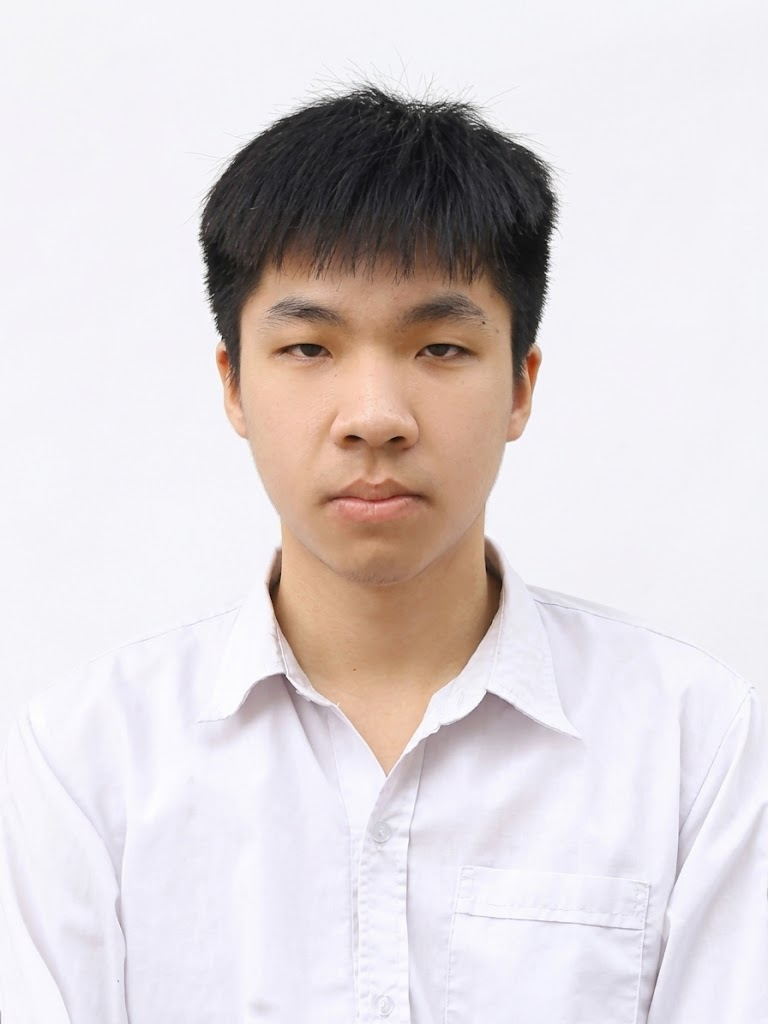
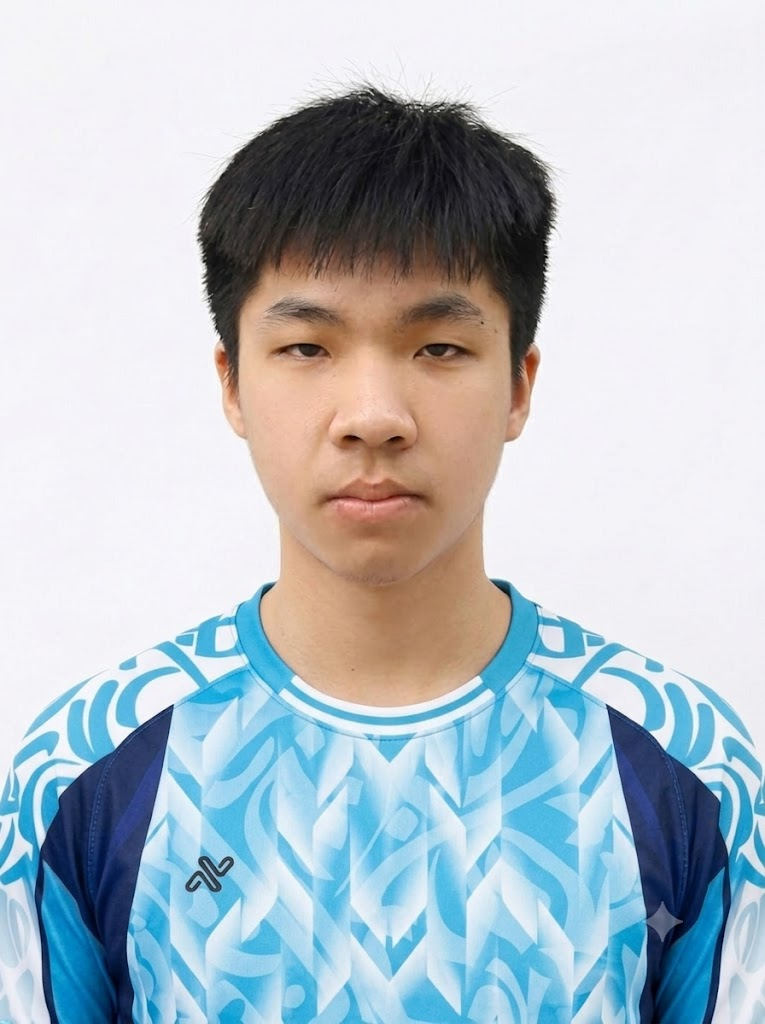
feat: redesign layout for 3 rows x 5 columns on mobile and tablet, fix mobile title visibility, and refresh photos

diff --git a/css/style.css b/css/style.css
@@ -152,7 +152,7 @@ body {
   display: block;
 }
 
-/* Dòng 1: Tiêu đề thể thao mạ ánh bạc metallic */
+/* Dòng 1: Tiêu đề thể thao mạ ánh bạc metallic sáng rực trên mọi màn hình */
 .poster-title {
   font-size: var(--font-size-title);
   font-weight: 900;
@@ -160,10 +160,8 @@ body {
   letter-spacing: 0.5px;
   margin-bottom: 8px;
   text-transform: uppercase;
-  background: linear-gradient(180deg, #FFFFFF 0%, #E0F2FE 55%, #BAE6FD 100%);
-  -webkit-background-clip: text;
-  -webkit-text-fill-color: transparent;
-  filter: drop-shadow(0 3px 10px rgba(0, 0, 0, 0.8));
+  color: #FFFFFF;
+  text-shadow: 0 2px 10px rgba(0, 0, 0, 0.95), 0 0 20px rgba(56, 189, 248, 0.7);
 }
 
 /* Dòng 2: Phụ đề dạng huy hiệu giải đấu (Matchday tournament tag) */
@@ -324,11 +322,13 @@ body {
               border-color 0.35s ease;
 }
 
-/* Hiệu ứng rê chuột thể thao bóng đá: Phóng to, viền cyan rực sáng */
-.person-card:hover .person-photo-wrapper {
-  transform: translateY(-6px) scale(1.04);
-  box-shadow: var(--card-glow-hover);
-  border-color: var(--card-border-hover);
+/* Hiệu ứng rê chuột thể thao bóng đá: Phóng to, viền cyan rực sáng (chỉ trên thiết bị hỗ trợ hover) */
+@media (hover: hover) {
+  .person-card:hover .person-photo-wrapper {
+    transform: translateY(-6px) scale(1.04);
+    box-shadow: var(--card-glow-hover);
+    border-color: var(--card-border-hover);
+  }
 }
 
 .person-img {
@@ -496,26 +496,21 @@ body {
 
 /* -------------------------------------------------------------------------- */
 /* 9. THIẾT KẾ ĐÁP ỨNG ĐA THIẾT BỊ (RESPONSIVE BREAKPOINTS)                    */
+/* LUÔN DUY TRÌ 5 CỘT (3 HÀNG X 5 CỘT = 15 CẦU THỦ) TRÊN MỌI THIẾT BỊ         */
 /* -------------------------------------------------------------------------- */
 
-/* Tablet ngang (768px - 1023px): 4 cột */
-@media (max-width: 1023px) and (min-width: 768px) {
+/* Tablet & Màn hình trung bình (480px - 1023px): 5 cột cân đối */
+@media (max-width: 1023px) and (min-width: 480px) {
   :root {
-    --grid-columns: 4;
-    --grid-gap: 16px;
+    --grid-columns: 5;
+    --grid-gap: 8px;
+    --name-col-width: 17%;
+    --card-radius: 6px;
+    --font-size-name: 10.5px;
   }
   
   .poster-container {
-    padding-top: 28px;
-  }
-}
-
-/* Tablet dọc & Điện thoại lớn (480px - 767px): 3 cột */
-@media (max-width: 767px) and (min-width: 480px) {
-  :root {
-    --grid-columns: 3;
-    --grid-gap: 14px;
-    --name-col-width: 19%;
+    padding: 24px 12px 20px;
   }
 
   .header-logo-wrapper {
@@ -524,67 +519,119 @@ body {
     margin-bottom: 10px;
   }
 
-  .event-info {
-    flex-direction: column;
-    align-items: center;
-    gap: 8px;
-    text-align: center;
+  .jersey-number {
+    min-width: 26px;
+    height: 20px;
+    font-size: 13px;
+    bottom: 5px;
+    padding: 0 5px;
   }
 
-  .sponsors-inner {
-    gap: 20px 32px;
+  .event-info {
+    font-size: 13px;
+    padding: 10px 16px;
   }
 }
 
-/* Điện thoại nhỏ (< 480px): 2 cột */
+/* Điện thoại di động (< 480px): Chuẩn 5 cột x 3 hàng, sắc nét, không bị vỡ */
 @media (max-width: 479px) {
   :root {
-    --grid-columns: 2;
-    --grid-gap: 12px;
-    --name-col-width: 20%;
-    --font-size-name: 11.5px;
+    --grid-columns: 5;
+    --grid-gap: 4px;
+    --name-col-width: 13px;
+    --font-size-name: 7.5px;
+    --card-radius: 4px;
   }
 
   .poster-container {
-    padding: 20px 12px 16px;
+    padding: 12px 4px 16px;
+  }
+
+  .poster-header {
+    margin-bottom: 12px;
   }
 
   .header-logo-wrapper {
-    width: 48px;
-    height: 48px;
-    margin-bottom: 8px;
+    width: 44px;
+    height: 44px;
+    margin-bottom: 6px;
+    padding: 2px;
   }
 
   .poster-title {
-    font-size: 20px;
+    font-size: 15px;
+    letter-spacing: 0.3px;
+    margin-bottom: 5px;
+    line-height: 1.25;
   }
 
   .poster-subtitle {
-    font-size: 12.5px;
-    padding: 4px 12px;
+    font-size: 9px;
+    padding: 3px 8px;
+    letter-spacing: 0.3px;
+    line-height: 1.3;
+    border-radius: 12px;
+  }
+
+  .team-grid {
+    gap: 4px;
+    margin-bottom: 12px;
+  }
+
+  .person-card {
+    align-items: stretch;
+  }
+
+  .person-name-col {
+    width: 13px;
+    padding-bottom: 2px;
+    padding-right: 2px;
+  }
+
+  .person-name {
+    font-size: 7.5px;
+    letter-spacing: 0.1px;
+    text-shadow: 0 1px 3px rgba(0, 0, 0, 0.95);
+  }
+
+  .person-photo-wrapper {
+    border-width: 1px;
+    border-radius: 4px;
+    box-shadow: 0 3px 8px rgba(0, 0, 0, 0.65);
   }
 
   .jersey-number {
-    min-width: 32px;
-    height: 24px;
-    font-size: 16px;
-    bottom: 6px;
+    min-width: 18px;
+    height: 14px;
+    font-size: 9.5px;
+    font-weight: 900;
+    padding: 0 3px;
+    bottom: 2px;
+    border-radius: 2.5px;
+    border-width: 1px;
+    box-shadow: 0 2px 6px rgba(0, 0, 0, 0.85);
   }
 
   .event-info {
     flex-direction: column;
     align-items: center;
-    gap: 6px;
-    font-size: 12.5px;
+    gap: 4px;
+    font-size: 11px;
+    padding: 8px 10px;
     text-align: center;
+    margin-top: 6px;
+  }
+
+  .sponsors-footer {
+    padding: 10px 8px;
   }
 
   .sponsors-inner {
-    gap: 16px 24px;
+    gap: 12px 16px;
   }
 
   .sponsor-logo {
-    max-height: 28px;
-    max-width: 100px;
+    max-height: 22px;
+    max-width: 80px;
   }
 }

diff --git a/js/main.js b/js/main.js
@@ -241,14 +241,17 @@ function setupNameAutoFit() {
 
 function adjustAllNameSizes() {
   const personCards = document.querySelectorAll(".person-card");
+  const isMobile = window.innerWidth < 480;
+  const isTablet = window.innerWidth < 768;
   
   personCards.forEach((card) => {
     const nameEl = card.querySelector(".person-name");
     const photoWrapper = card.querySelector(".person-photo-wrapper");
     if (!nameEl || !photoWrapper) return;
 
-    // Chiều cao khả dụng dọc theo ảnh (trừ 8px khoảng thở trên dưới)
-    const availableHeight = photoWrapper.clientHeight - 8;
+    // Chiều cao khả dụng dọc theo ảnh
+    const paddingOffset = isMobile ? 3 : 8;
+    const availableHeight = photoWrapper.clientHeight - paddingOffset;
     if (availableHeight <= 0) return;
 
     // Khôi phục cỡ chữ ban đầu
@@ -257,15 +260,16 @@ function adjustAllNameSizes() {
     nameEl.style.transform = "rotate(180deg)";
 
     // Lấy kích thước chữ mặc định được tính bởi CSS
-    let currentFontSize = parseFloat(window.getComputedStyle(nameEl).fontSize) || 13;
-    const minFontSize = 9.5; // Ngưỡng an toàn không để chữ quá bé
+    let currentFontSize = parseFloat(window.getComputedStyle(nameEl).fontSize) || (isMobile ? 7.5 : 13);
+    const minFontSize = isMobile ? 5.2 : (isTablet ? 7.2 : 9.5); // Ngưỡng an toàn theo kích thước màn hình
 
     // Đo chiều dài của chuỗi tên xoay dọc (dùng getBoundingClientRect để chính xác)
     let renderedHeight = nameEl.getBoundingClientRect().height;
 
-    // Giảm dần cỡ chữ từng bước 0.4px cho đến khi vừa khít
+    // Giảm dần cỡ chữ từng bước cho đến khi vừa khít
+    const step = isMobile ? 0.2 : 0.4;
     while (renderedHeight > availableHeight && currentFontSize > minFontSize) {
-      currentFontSize -= 0.4;
+      currentFontSize -= step;
       nameEl.style.fontSize = `${currentFontSize}px`;
       renderedHeight = nameEl.getBoundingClientRect().height;
     }
@@ -273,13 +277,14 @@ function adjustAllNameSizes() {
     // Nếu tên vẫn quá dài ở cỡ chữ tối thiểu (ví dụ màn hình điện thoại rất bé)
     // thì thu hẹp nhẹ khoảng cách ký tự (letter-spacing)
     if (renderedHeight > availableHeight) {
-      nameEl.style.letterSpacing = "-0.2px";
+      nameEl.style.letterSpacing = isMobile ? "-0.3px" : "-0.2px";
       renderedHeight = nameEl.getBoundingClientRect().height;
     }
 
     // Biện pháp bảo vệ cuối cùng: thu nhỏ tỉ lệ nhẹ nếu vẫn chớm vượt
     if (renderedHeight > availableHeight) {
-      const scaleFactor = Math.max(0.85, availableHeight / renderedHeight);
+      const minScale = isMobile ? 0.65 : 0.85;
+      const scaleFactor = Math.max(minScale, availableHeight / renderedHeight);
       nameEl.style.transform = `rotate(180deg) scale(${scaleFactor.toFixed(2)})`;
     }
   });

diff --git a/js/players.js b/js/players.js
@@ -19,7 +19,7 @@
 const teamData = {
   // 1. THÔNG TIN CHUNG CỦA ĐỘI VÀ SỰ KIỆN
   teamName: "ĐỘI TUYỂN ĐIỆN TỬ 17A1HN",
-  title: "Danh sách Đội tuyển Điện tử 17A1HN",
+  title: "Đội tuyển Điện tử 17A1HN",
   subtitle: "Giải Bóng Đá Sinh Viên Khoa Điện Tử Và Kỹ Thuật Máy Tính Năm 2026",
 
   // Đường dẫn logo đội hiển thị ở đầu trang và ô đầu tiên của lưới
